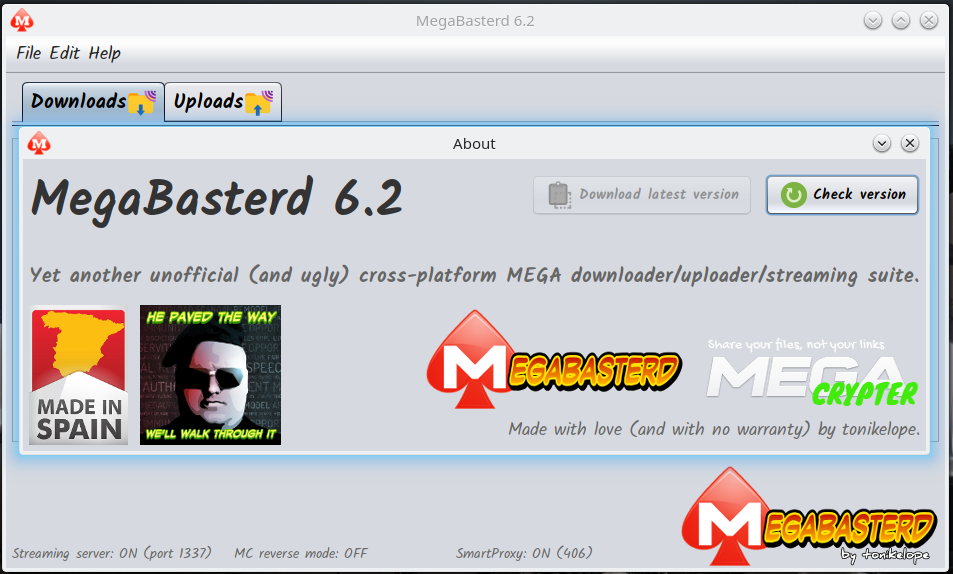
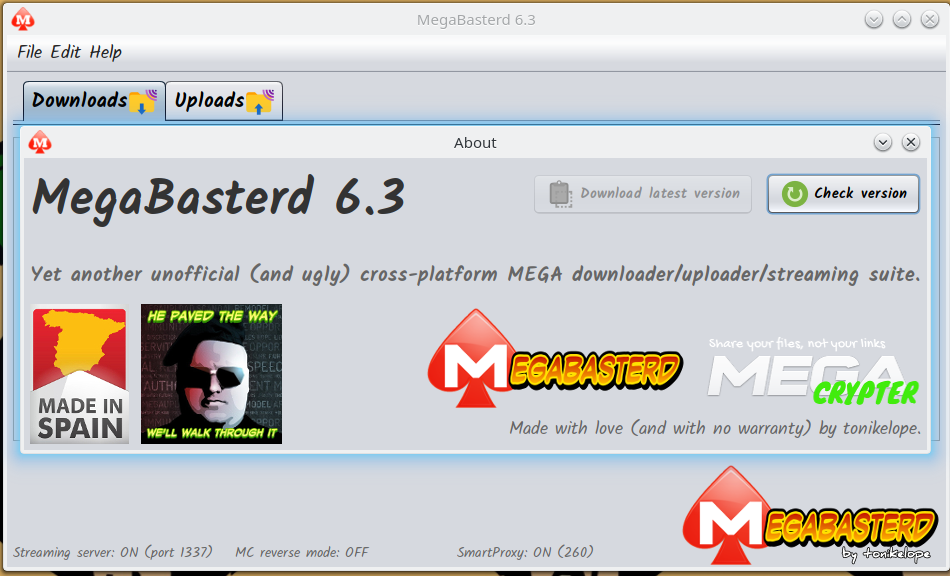
6.3
-Chunks temp dir added

Changed region(s): [[0.0, 0.0, 1.0, 1.0], [0.4884, 0.5331, 0.5189, 0.5627]]

diff --git a/src/main/java/com/tonikelope/megabasterd/ChunkManager.java b/src/main/java/com/tonikelope/megabasterd/ChunkManager.java
@@ -5,10 +5,10 @@ import java.io.File;
 import java.io.FileInputStream;
 import java.io.IOException;
 import static java.lang.String.valueOf;
+import java.nio.file.Paths;
 import java.security.InvalidAlgorithmParameterException;
 import java.security.InvalidKeyException;
 import java.security.NoSuchAlgorithmException;
-import java.util.concurrent.ConcurrentLinkedQueue;
 import java.util.logging.Level;
 import java.util.logging.Logger;
 import javax.crypto.CipherInputStream;
@@ -63,19 +63,23 @@ public final class ChunkManager implements Runnable, SecureSingleThreadNotifiabl
     private final byte[] _byte_file_key;
     private final byte[] _byte_iv;
     private volatile boolean _exit;
-    private final ConcurrentLinkedQueue<Long> _rejectedChunkIds;
     private final Object _secure_notify_lock;
     private boolean _notified;
+    private final String _chunks_dir;
+
+    public String getChunks_dir() {
+        return _chunks_dir;
+    }
 
     public ChunkManager(Download downloader) throws Exception {
         _notified = false;
         _exit = false;
         _download = downloader;
+        _chunks_dir = _download.getDownload_path() + "/.mb_chunks_" + _download.getFile_name();
         _secure_notify_lock = new Object();
         _file_size = _download.getFile_size();
         _byte_file_key = initMEGALinkKey(_download.getFile_key());
         _byte_iv = initMEGALinkKeyIV(_download.getFile_key());
-        _rejectedChunkIds = new ConcurrentLinkedQueue<>();
 
         if (_download.getProgress() == 0) {
 
@@ -88,6 +92,8 @@ public final class ChunkManager implements Runnable, SecureSingleThreadNotifiabl
 
             _bytes_written = _download.getProgress();
         }
+
+        _create_chunks_temp_dir();
 
         Logger.getLogger(getClass().getName()).log(Level.INFO, "{0} Chunkmanager hello LAST CHUNK WRITTEN -> [{1}] {2}...", new Object[]{Thread.currentThread().getName(), _last_chunk_id_written, _bytes_written});
 
@@ -129,6 +135,21 @@ public final class ChunkManager implements Runnable, SecureSingleThreadNotifiabl
         return _last_chunk_id_written;
     }
 
+    private void _create_chunks_temp_dir() {
+
+        File chunks_temp_dir = new File(getChunks_dir());
+        chunks_temp_dir.mkdirs();
+    }
+
+    public void delete_chunks_temp_dir() {
+
+        try {
+            MiscTools.deleteDirectoryRecursion(Paths.get(getChunks_dir()));
+        } catch (IOException ex) {
+            Logger.getLogger(ChunkManager.class.getName()).log(Level.SEVERE, null, ex);
+        }
+    }
+
     @Override
     public void run() {
 
@@ -141,7 +162,7 @@ public final class ChunkManager implements Runnable, SecureSingleThreadNotifiabl
             if (_file_size > 0) {
                 while (!_exit && (!_download.isStopped() || !_download.getChunkworkers().isEmpty()) && _bytes_written < _file_size) {
 
-                    File chunk_file = new File(_download.getDownload_path() + "/" + _download.getFile_name() + ".chunk" + String.valueOf(_last_chunk_id_written + 1));
+                    File chunk_file = new File(getChunks_dir() + "/" + _download.getFile_name() + ".chunk" + String.valueOf(_last_chunk_id_written + 1));
 
                     while (chunk_file.exists() && chunk_file.canRead()) {
 
@@ -176,7 +197,7 @@ public final class ChunkManager implements Runnable, SecureSingleThreadNotifiabl
 
                         chunk_file.delete();
 
-                        chunk_file = new File(_download.getDownload_path() + "/" + _download.getFile_name() + ".chunk" + String.valueOf(_last_chunk_id_written + 1));
+                        chunk_file = new File(getChunks_dir() + "/" + _download.getFile_name() + ".chunk" + String.valueOf(_last_chunk_id_written + 1));
                     }
 
                     if (!_exit && (!_download.isStopped() || !_download.getChunkworkers().isEmpty()) && _bytes_written < _file_size) {
@@ -186,6 +207,10 @@ public final class ChunkManager implements Runnable, SecureSingleThreadNotifiabl
                         secureWait();
 
                     }
+                }
+
+                if (_bytes_written == _file_size) {
+                    delete_chunks_temp_dir();
                 }
             }
 

diff --git a/src/main/java/com/tonikelope/megabasterd/ChunkDownloader.java b/src/main/java/com/tonikelope/megabasterd/ChunkDownloader.java
@@ -232,11 +232,11 @@ public class ChunkDownloader implements Runnable, SecureSingleThreadNotifiable {
 
                         } else {
 
-                            chunk_file = new File(_download.getDownload_path() + "/" + _download.getFile_name() + ".chunk" + chunk_id);
+                            chunk_file = new File(_download.getChunkmanager().getChunks_dir() + "/" + _download.getFile_name() + ".chunk" + chunk_id);
 
                             if (!chunk_file.exists() || chunk_file.length() != chunk_size) {
 
-                                tmp_chunk_file = new File(_download.getDownload_path() + "/" + _download.getFile_name() + ".chunk" + chunk_id + ".tmp");
+                                tmp_chunk_file = new File(_download.getChunkmanager().getChunks_dir() + "/" + _download.getFile_name() + ".chunk" + chunk_id + ".tmp");
 
                                 try (InputStream is = new ThrottledInputStream(con.getInputStream(), _download.getMain_panel().getStream_supervisor()); FileOutputStream tmp_chunk_file_os = new FileOutputStream(tmp_chunk_file)) {
 

diff --git a/src/main/java/com/tonikelope/megabasterd/MiscTools.java b/src/main/java/com/tonikelope/megabasterd/MiscTools.java
@@ -35,6 +35,10 @@ import java.net.URL;
 import java.net.URLDecoder;
 import java.nio.ByteBuffer;
 import java.nio.IntBuffer;
+import java.nio.file.DirectoryStream;
+import java.nio.file.Files;
+import java.nio.file.LinkOption;
+import java.nio.file.Path;
 import java.security.MessageDigest;
 import java.security.NoSuchAlgorithmException;
 import java.text.DecimalFormat;
@@ -99,6 +103,17 @@ public final class MiscTools {
             }
         }
     };
+
+    public static void deleteDirectoryRecursion(Path path) throws IOException {
+        if (Files.isDirectory(path, LinkOption.NOFOLLOW_LINKS)) {
+            try (DirectoryStream<Path> entries = Files.newDirectoryStream(path)) {
+                for (Path entry : entries) {
+                    deleteDirectoryRecursion(entry);
+                }
+            }
+        }
+        Files.delete(path);
+    }
 
     public static Font createAndRegisterFont(String name) {
 

diff --git a/src/main/java/com/tonikelope/megabasterd/Download.java b/src/main/java/com/tonikelope/megabasterd/Download.java
@@ -825,15 +825,8 @@ public final class Download implements Transference, Runnable, SecureSingleThrea
             _file.delete();
 
             if (getChunkmanager() != null) {
-                long chunk_id = getChunkmanager().getLast_chunk_id_written() + 1;
 
-                while (chunk_id < _last_chunk_id_dispatched) {
-                    File chunk_file = new File(getDownload_path() + "/" + getFile_name() + ".chunk" + String.valueOf(chunk_id++));
-
-                    if (chunk_file.exists()) {
-                        chunk_file.delete();
-                    }
-                }
+                getChunkmanager().delete_chunks_temp_dir();
 
                 File parent_download_dir = new File(getDownload_path() + "/" + getFile_name()).getParentFile();
 

diff --git a/src/main/java/com/tonikelope/megabasterd/MainPanel.java b/src/main/java/com/tonikelope/megabasterd/MainPanel.java
@@ -48,7 +48,7 @@ import javax.swing.UIManager;
  */
 public final class MainPanel {
 
-    public static final String VERSION = "6.2";
+    public static final String VERSION = "6.3";
     public static final int THROTTLE_SLICE_SIZE = 16 * 1024;
     public static final int DEFAULT_BYTE_BUFFER_SIZE = 16 * 1024;
     public static final int STREAMER_PORT = 1337;
